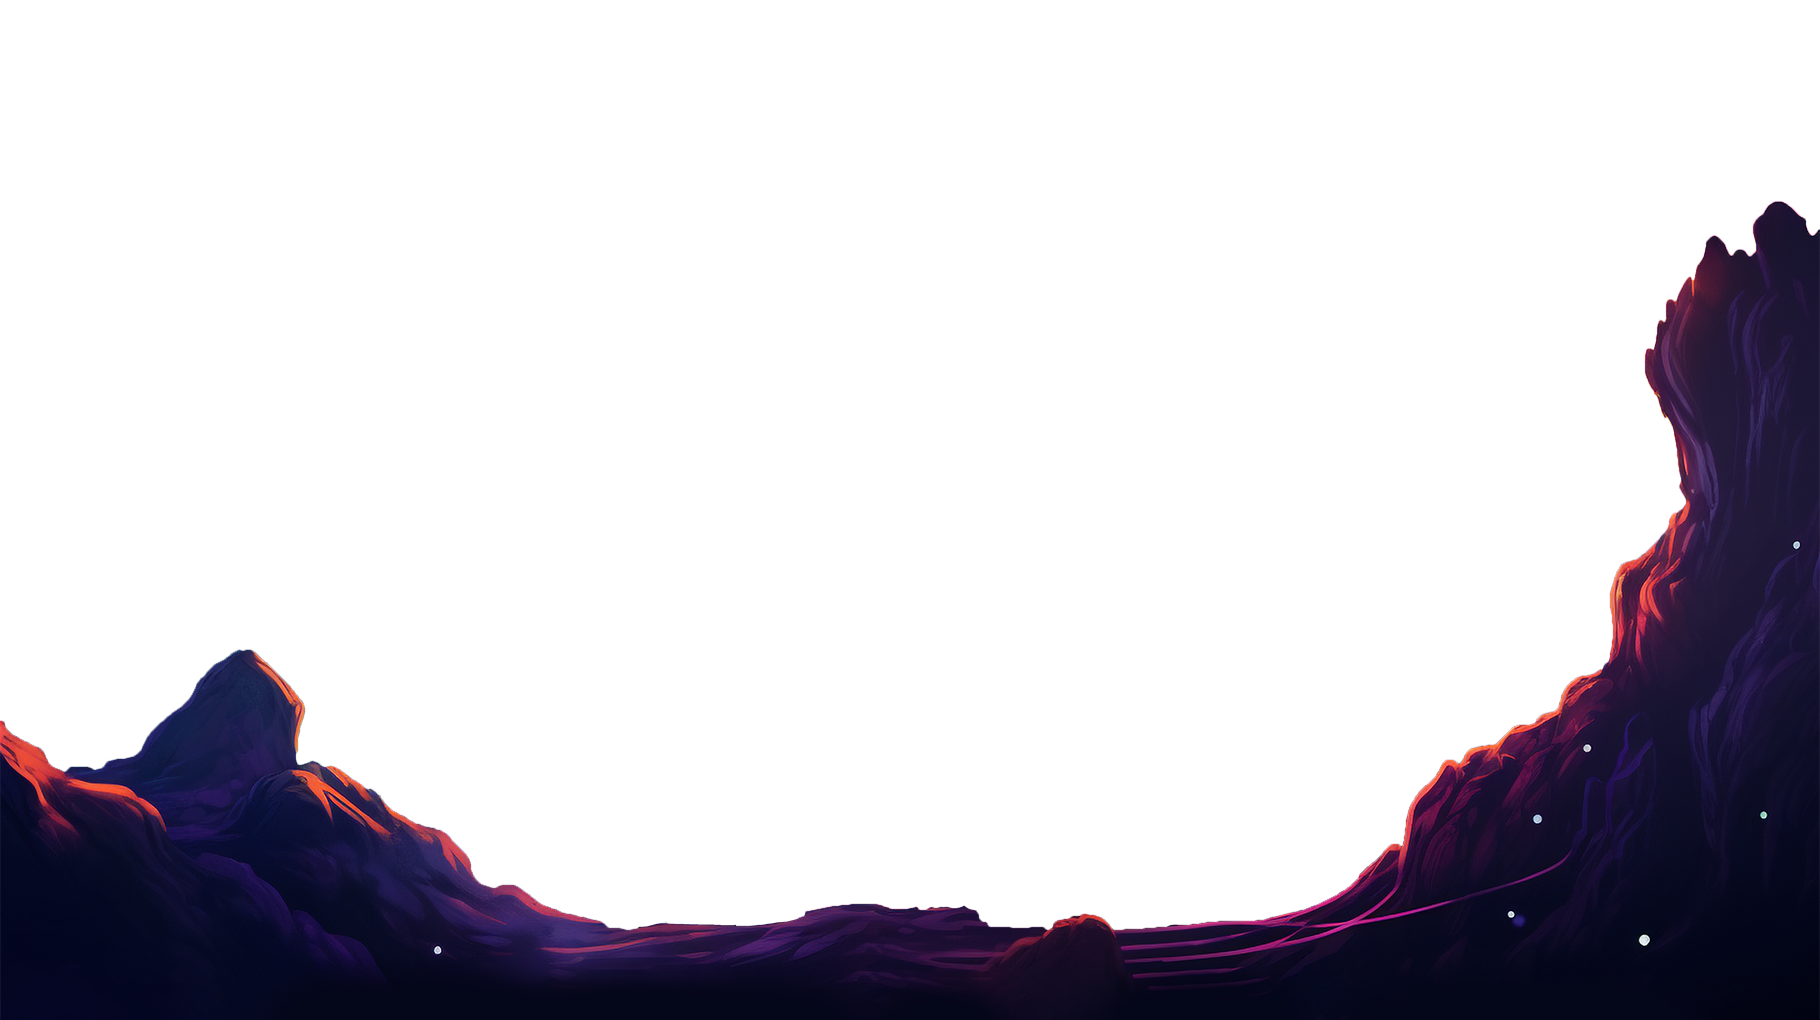
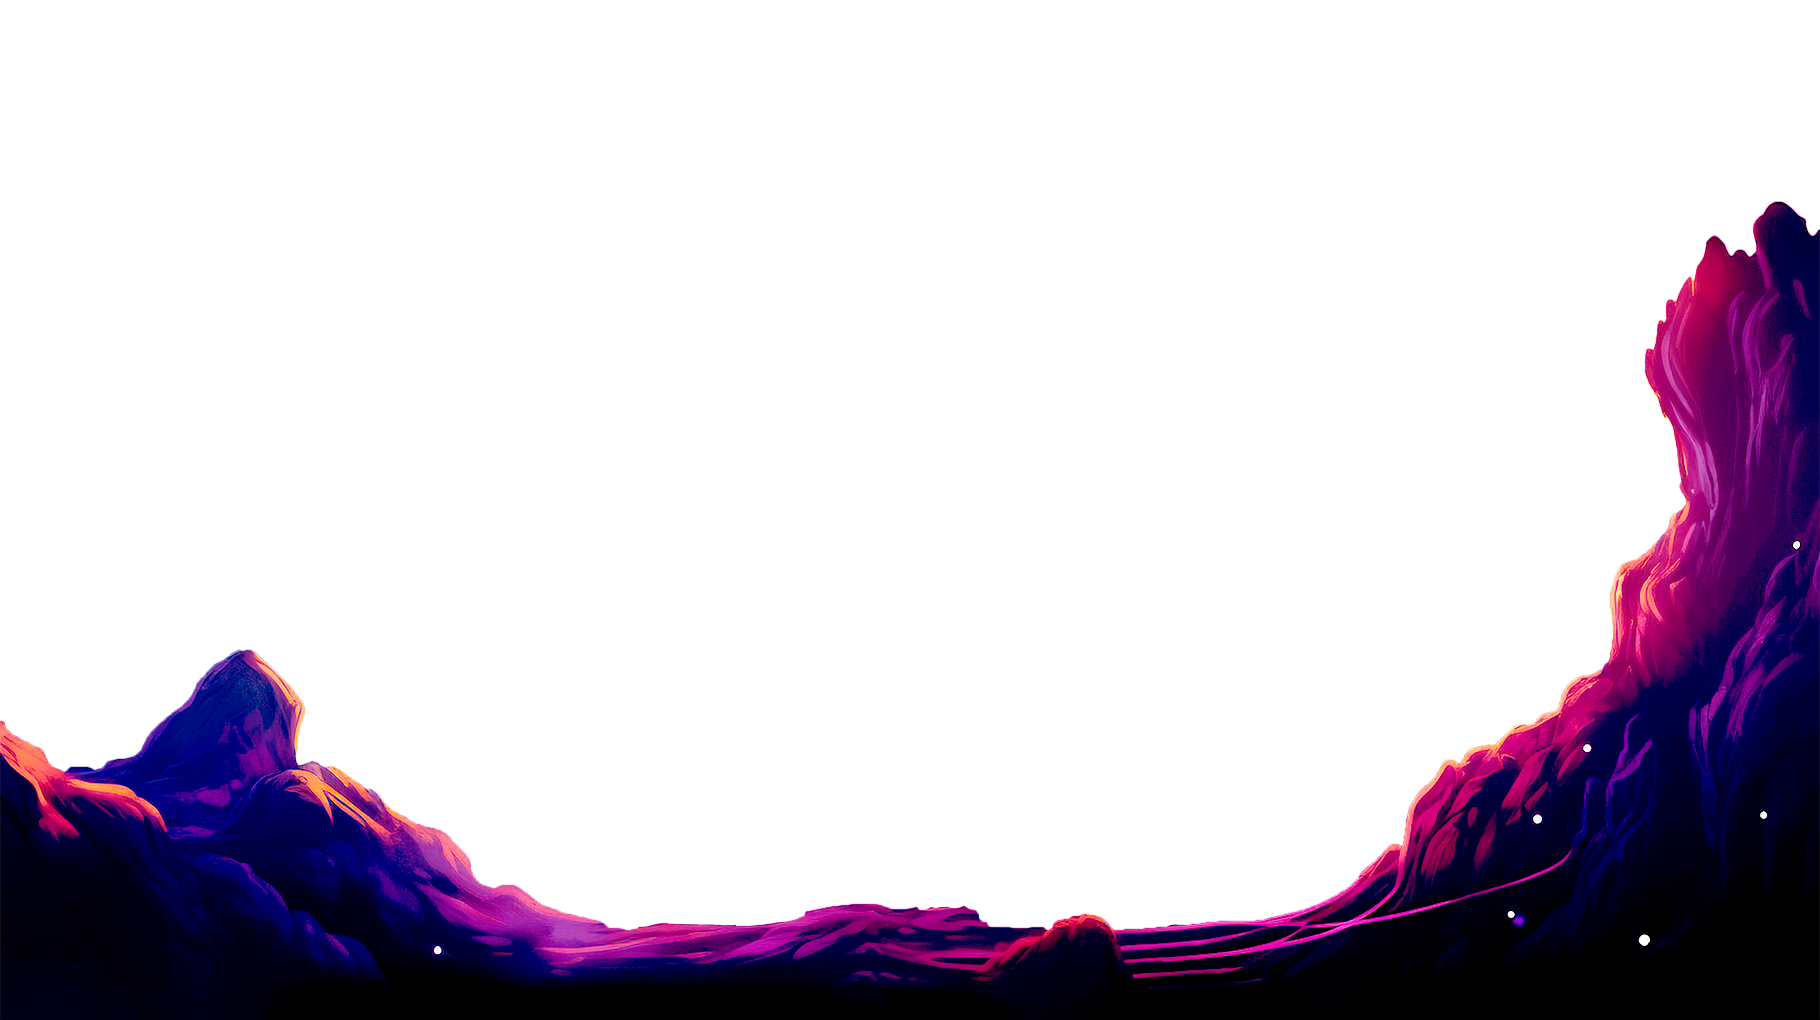
Refactor code structure for improved readability and maintainability

Changed region(s): [[0.0, 0.1824, 1.0, 1.0], [0.0308, 0.9118, 0.0615, 0.9422]]

diff --git a/src/components/parallaxBackground.jsx b/src/components/parallaxBackground.jsx
@@ -15,7 +15,7 @@ const ParallaxBackground = () => {
         <div
           className="absolute inset-0 w-full h-screen -z-50"
           style={{
-            backgroundImage: "url(/assets/sky2.jpg)",
+            backgroundImage: "url(/assets/sky.png)",
             backgroundPosition: "bottom",
             backgroundSize: "cover",
           }}

diff --git a/src/sections/Navbar.jsx b/src/sections/Navbar.jsx
@@ -23,6 +23,11 @@ function Navigation() {
           Contact
         </a>
       </li>
+        <li className="nav-li">
+          <a className="nav-link" href="#blogs">
+            Blogs
+          </a>
+        </li>
     </ul>
   );
 }

diff --git a/README.md b/README.md
@@ -88,29 +88,3 @@ The app will be available at http://localhost:5173.
 Assets used in the project can be found [here](https://github.com/user-attachments/files/19820923/public.zip)
 
 ---
-
-## 📬 Contact Me
-[![Instagram](https://img.shields.io/badge/Instagram-%23E4405F.svg?logo=Instagram&logoColor=white)](https://www.instagram.com/ali.sanatidev/reels/) 
-[![Static Badge](https://img.shields.io/badge/Youtube-%23FF0033?style=flat&logo=youtube)](https://www.youtube.com/channel/UCZhtUWTtk3bGJiMPN9T4HWA)
-[![LinkedIn](https://img.shields.io/badge/LinkedIn-%230077B5.svg?logo=linkedin&logoColor=white)](https://www.linkedin.com/in/ali-sanati/) 
-
----
-
-## 💡 Suggestions or Feedback?
-Leave a comment on the [YouTube video](https://youtu.be/S9UQItTpwUQ) or open an issue here on GitHub.<br/>
-👉 What should I build next?
-
-- A beautiful Landing Page
-
-- A complete E-commerce site
-
-- A fun App Clone (YouTube, Netflix, etc.)
-
-Or another interactive Portfolio
-
-Let me know!
-
----
-
-## ⭐ Like This Project?
-Star the repo and [subscribe](https://www.youtube.com/channel/UCZhtUWTtk3bGJiMPN9T4HWA??sub_confirmation=1) to the YouTube channel for more dev content!
